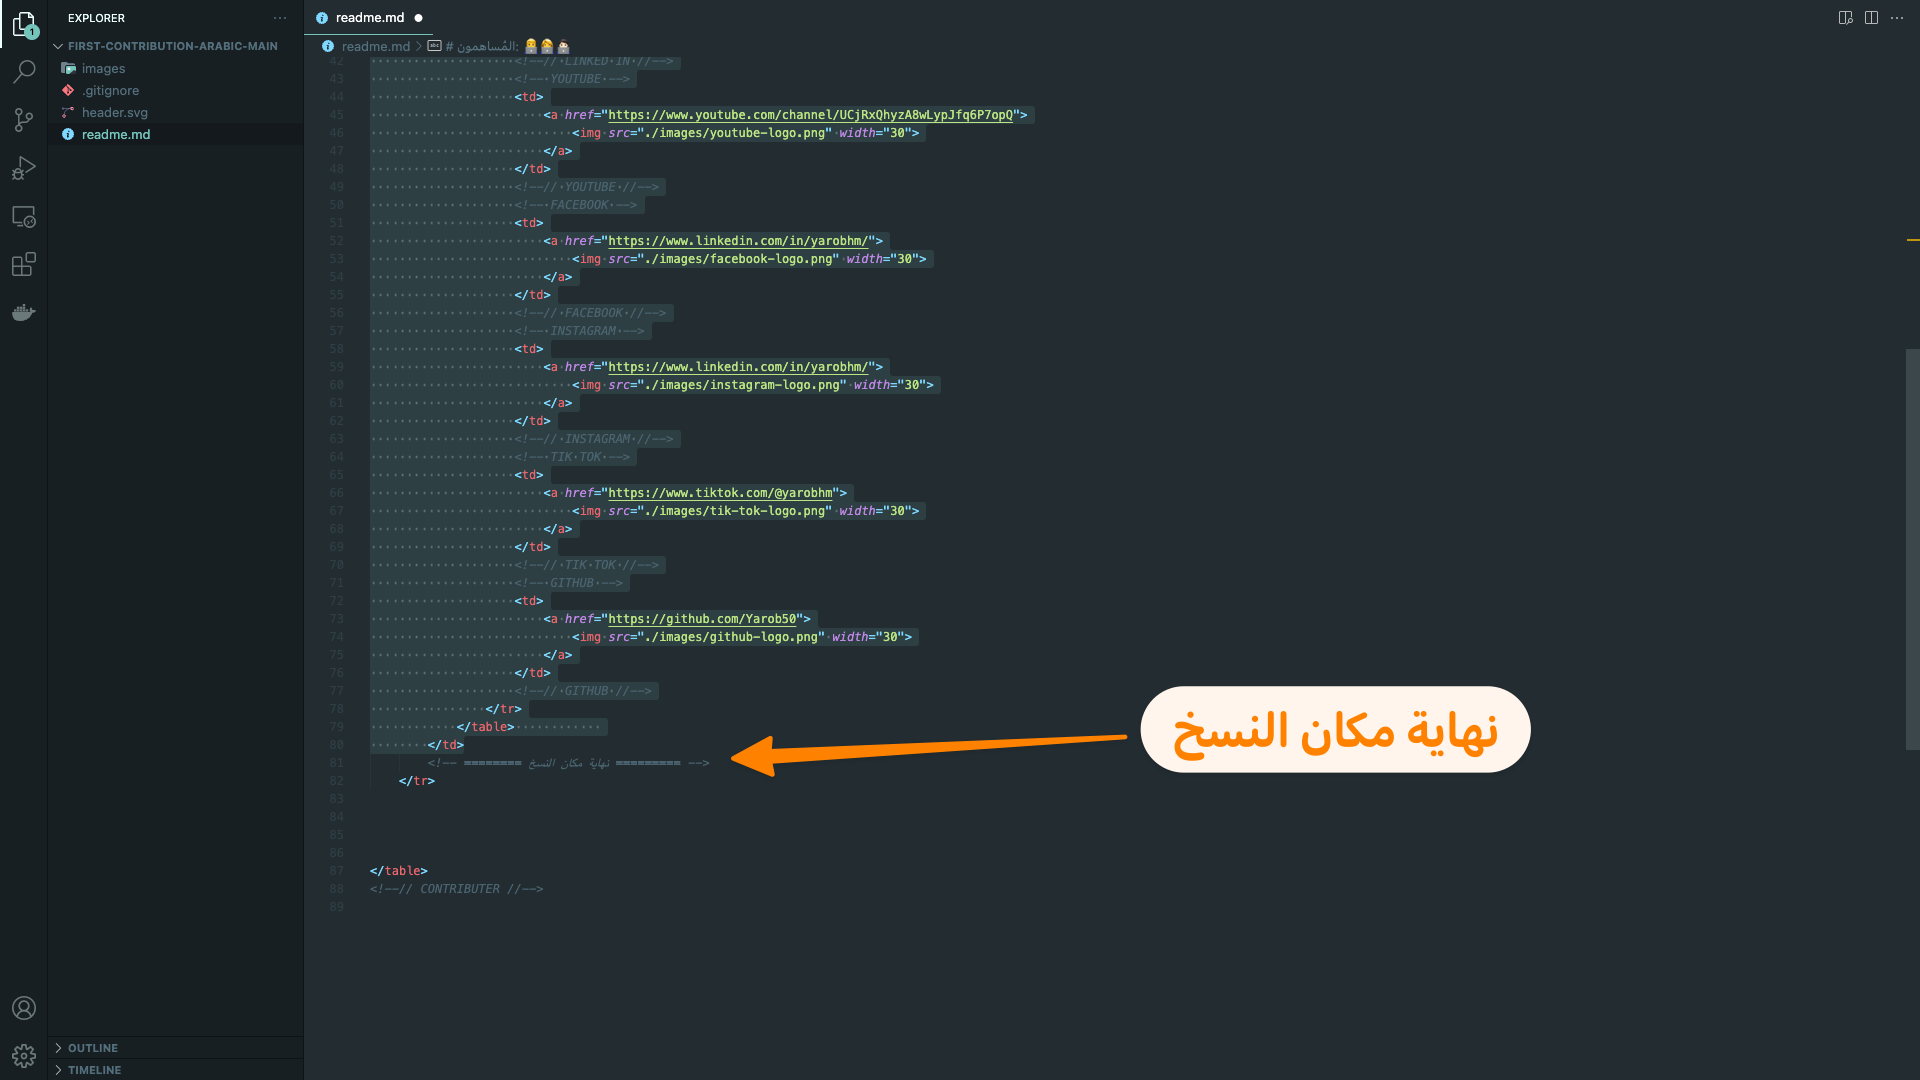
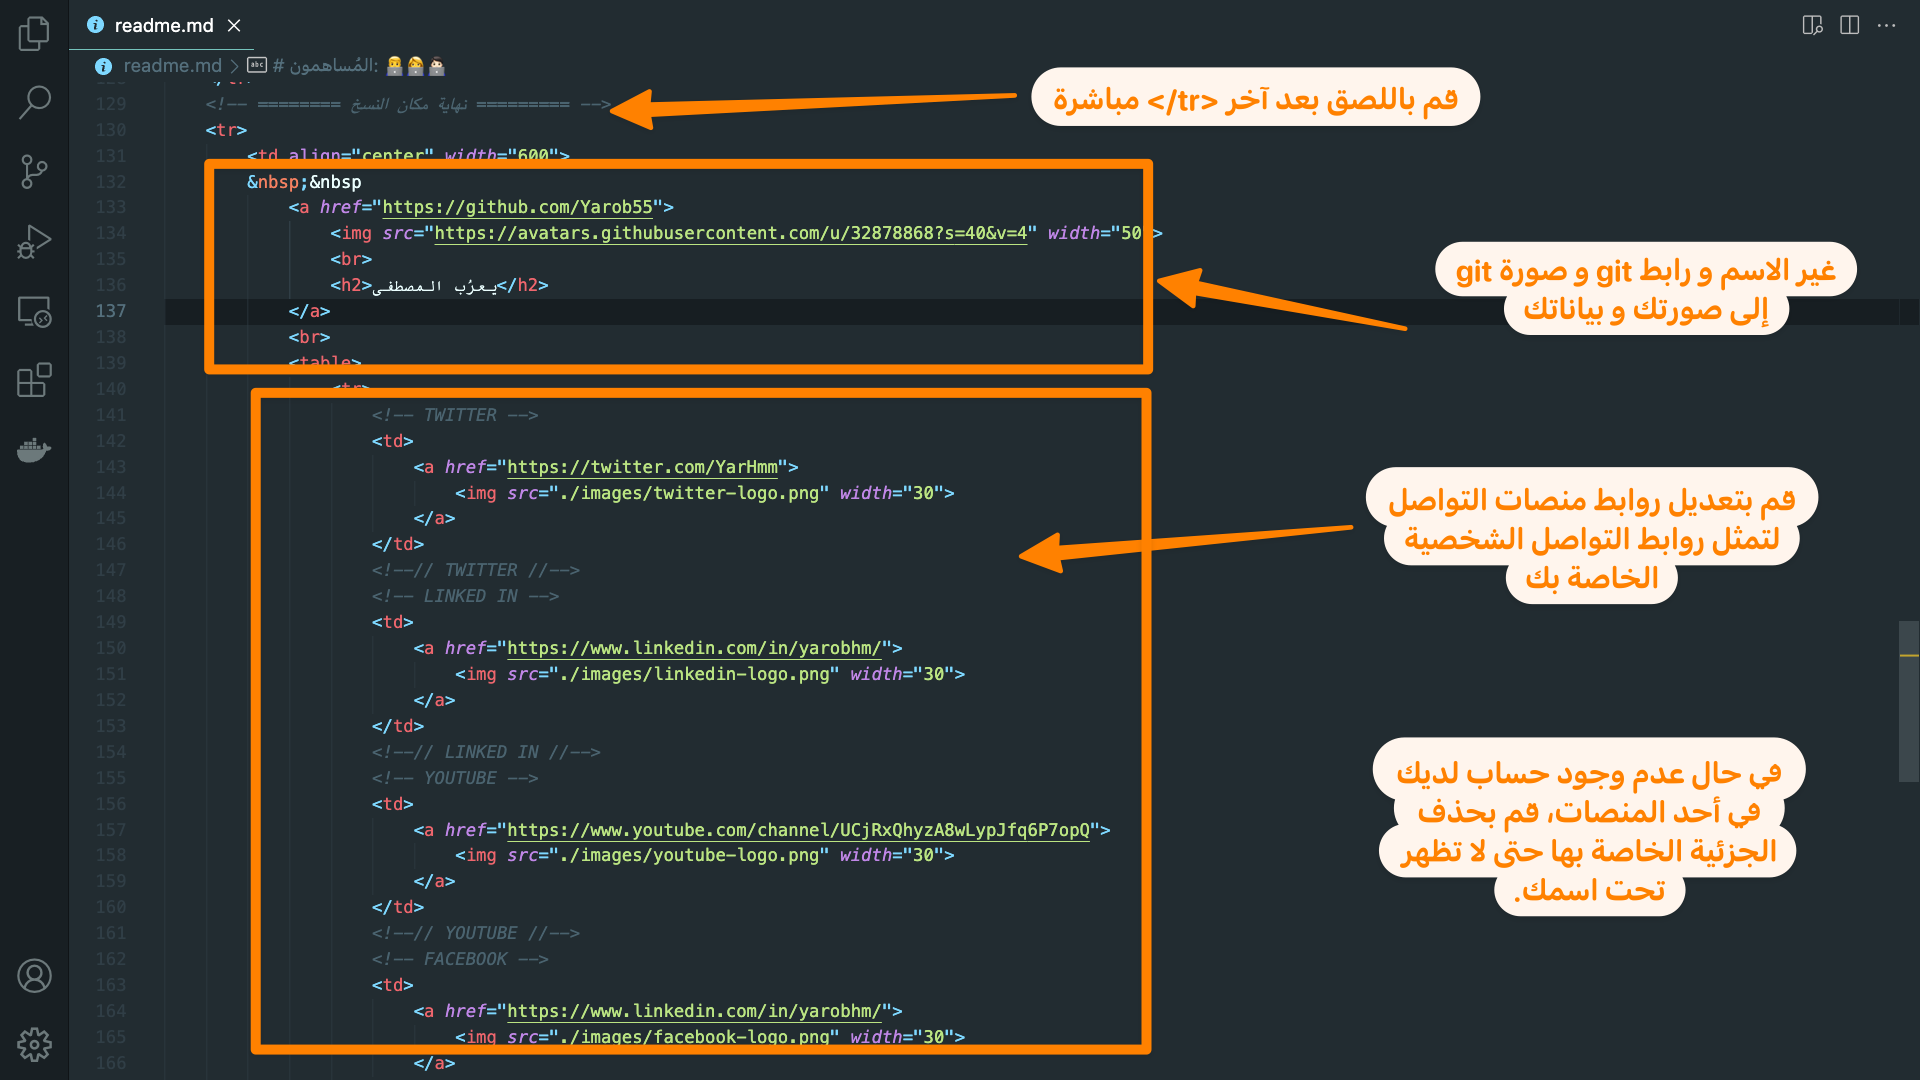
completing the steps

diff --git a/readme.md b/readme.md
@@ -55,7 +55,91 @@
 ستجد المكان الذي يحددلك مكان النسخ حيث يجب عليك النسخ من بداية ال `<tr>` و صولا إلى نهايته `</tr>`
 
 <img src="images/steps/6.png">
+<img src="images/steps/6.1.png">
+
+<br>
+
+## ٧- قم باللصق و تحديث البيانات
+
+تأكد من تحديث البيانات بعد اللصق و قم بحدف بيانات حساباتك في المنصات التي لا تريد لها أن تظهر.
+
 <img src="images/steps/7.png">
+
+<br>
+
+## ٨- قم بعمل `git init` في حال لم تقم بالتنزيل باستخدام `git clone...`.
+
+ستحتاج هذا الأمر في حال اتبعت طريقة التنزيل اليدوية المذكورة في هذا الشرح عن طريق (donwload zip file).
+
+<img src="images/steps/8.png">
+
+<br>
+
+## ٩- قم بعمل `git add .` و من ثم `git commit` لحفظ التغييرات.
+
+هذا سيقوم بحفظ التغييرات لديك محليا في الجهاز استعدادا لرفعها للمستودع (الخاص بك)
+
+<img src="images/steps/9.png">
+
+<img src="images/steps/9.1.png">
+
+<br>
+
+## ١٠ - في حال تنزيلك للمستودع بالطريقة اليدوية عليك أن تقوم بإضافة ال remote
+
+لن يعمل معك أمر `git push origin main` مباشرة في حال التنزيل اليدوي و إنما عليك أن تقوم بإضافة ال `remote` أولا،
+و المقصود بذلك أن تحدد المستودع من github الذي يمثل المكان الذي سيتم رفع الكود إليه في حال تم عمل `git push origin main`.
+و ذلك من خلال نسخ الرابط من زر `code` من نسخة المستودع الخاصة بك و من ثم استخدامه في الأمر التالي:
+
+```
+    git remote add origin <your rep url here>
+```
+
+<img src="images/steps/10.png">
+
+<br>
+
+## ١١- قم برفع التغييرات إلى مستودعك
+
+قم برفع التغييرات باستخدام الأمر: `git push origin main`.
+هذا سيقوم برفع التغييرات إلى نسختك من المستودع و ليس إلى النسخة الأصلية التي قمت بعمل ال Fork منها.
+
+<img src="images/steps/11.png">
+
+<br>
+
+## ١٢- قم بفتح نسخة المستودع الخاصة بك
+
+تأكد أنك فتحت نسخة المستودع الخاصة بحسابك في github و ليس النسخة الأصلية من المشروع، ستلاحظ أن التغيير الذي قمت بعمله قد تم إضافته
+
+<img src="images/steps/12.png">
+<img src="images/steps/12.1.png">
+
+<br>
+
+## ١٣- قم بعمل ال Pull Request
+
+قم بعمل ال pull request كما هو موضح في الصورة و هي طريقة لطلب اعتماد التغيير الذي قمت به في النسخة الأصلية من المشروع.
+<img src="images/steps/13.png">
+
+<br>
+
+## ١٤- قم بإرسال ال Pull Request
+
+قم بتعبئة البيانات كما هو موضح في الصورة و من ثم اعتمد إرسال ال pull request عن طريق الضغط على create pull request.
+<img src="images/steps/14.png">
+
+<br>
+
+## ١٥- انتظر حتى يتم اعتماد طلبك
+
+بعد ذلك سيصل طلبك إلي و في حال عدم وجود أية ملاحظات فسأقوم باعتماده ليصبح جزءًا من المشروع الأصلي و يتم إضافتك إلى قائمة المساهمين، حينها ستكون قد أتممت مساهمتك الأولى في المصدر المفتوح. 👌🏻😄
+<img src="images/steps/14.png">
+
+---
+
+<br>
+<br>
 
 # المُساهمون: 👨💻👩💻🧑🏻💻
 
